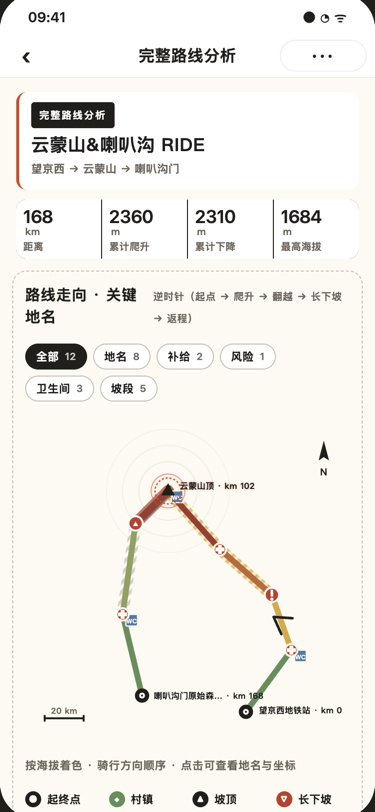
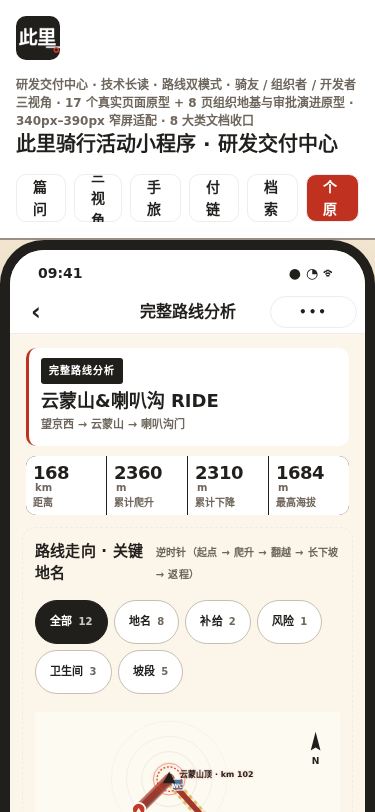
feat(ui): 统一沸点主题与路线分析体验 (#268)
界面：路线分析保留地图、海拔、关键点与分段信息，统一米黄背景、白色卡片、圆角和固定 44px 触控下限。\n体验：补齐凭证安全区、图片语义、隐私称呼与活动卡片胶囊按钮。\n交付：版本升级至 2026.10.17.86，同步 Pages 原型、路由清单和视觉证据。\n验证：validate、coverage、audit:all、UI 严格同步与独立审查全部通过。

diff --git a/docs/schema.js b/docs/schema.js
@@ -89,7 +89,9 @@ window.prototypeData = {
         '关键点、坡段、海拔游标三方联动；点击任一关键点、芯片或分段，所有视图同步更新',
         '地图加载失败时只降级地图，保留海拔、坡度与分段，并提供轻量重试入口',
         '明确标注"脱敏演示样本"：当前地名 / 坐标 / 施工 / 事故为示意结构，正式数据以主办方发布与接入服务为准；不再出现"未接入 / 待接入 / 数据边界 / GPX 下载"等开发态话术',
-        '视觉按高密度专业路线手册约定：米黄纸底 + 深炭字 + 海拔分段功能色（低段绿 / 中段黄 / 顶段橙红）+ 蓝灰 WC + 补给/风险红，不受全局沸点主题装饰约束',
+        '视觉保留码表式高密度信息，但改用沸点米黄底、白色分区卡、深炭字与行动红强调；统一 8 / 26 / 胶囊圆角层级',
+        '地图、筛选、关键点、坡段、海拔游标继续联动；高密度内容通过分区标题、等宽数字与留白建立扫描路径',
+        '地图重置、重试与海拔锚点触控区不小于 44px，标签与辅助文字提升到可读字号',
       ],
       spec: ['路线摘要卡 §3.2', '完整路线分析 §3.11', '路线走向·关键地名 §4.2', '数据格 §2.10', '底部固定栏 §2.12'],
     },
@@ -203,7 +205,7 @@ window.prototypeData = {
       navTitle: '设置',
       group: '个人资料',
       role: '骑友',
-      state: 'V2026.10.17.81',
+      state: 'V2026.10.17.86',
       copy: '查看当前版本信息与本次 App 更新内容，不再堆砌历史时间线。',
       states: [['default', '默认']],
       problems: ['旧版设置页会展示最近五次历史升级，信息密度过高（P1）'],
@@ -762,7 +764,7 @@ window.prototypeData = {
   driver: { name: '王师傅', phone: '139 0000 1234', car: '京A·S1234 白色金杯' },
   attendees: ['风向骑手', '小北', '麦子', '路飞', '阿洛'],
   releaseNotes: [
-    ['2026.10.17.81', '活动归属俱乐部更清楚', '活动、行程、凭证和个人中心会统一展示俱乐部身份，历史活动也会保留发布时的归属。'],
+    ['2026.10.17.86', '主题体验与路线分析焕新', '路线分析保留完整数据密度并融入沸点主题，关键操作尺寸、凭证安全区与隐私说明同步优化。'],
   ],
   clubIdentity: {
     publicLabel: '此里公开活动',

diff --git a/tests/route-analysis-contract.test.ts b/tests/route-analysis-contract.test.ts
@@ -36,7 +36,8 @@ describe('完整路线分析页合同', () => {
       template.indexOf('海拔剖面与锚点'),
     );
     expect(template.indexOf('海拔剖面与锚点')).toBeLessThan(template.indexOf('路线分段'));
-    expect(styles).toContain('background: #efe6d4');
+    expect(styles).toContain('background: var(--color-bg)');
+    expect(styles).toContain('border-radius: var(--radius-md)');
     expect(styles).toContain('font-family: var(--font-mono)');
   });
 
@@ -56,6 +57,10 @@ describe('完整路线分析页合同', () => {
       '{{selectedPoint.note}}',
     ])
       expect(template).toContain(detail);
+    expect(styles).toContain('min-height: 44px');
+    expect(styles).toContain('border-radius: 999rpx');
+    expect(template).toContain('aria-pressed="{{selectedPointId === point.id}}"');
+    expect(template).toContain('aria-label="路线走向地图，可点击标记查看关键点"');
     expect(page).toContain('arrowLine: true');
     expect(page).toContain("display: selected ? 'ALWAYS' : 'BYCLICK'");
     expect(page).toContain('label: {');
@@ -92,7 +97,7 @@ describe('完整路线分析页合同', () => {
     expect(page).toContain('mapPoints: selectedOutline');
     expect(page).toContain('showFullRoute()');
     expect(template).toContain('scale="{{mapScale}}"');
-    expect(template).toContain('bindtap="showFullRoute">查看全线');
+    expect(template).toContain('bindtap="showFullRoute" aria-label="查看完整路线">查看全线');
     expect(page).not.toContain('copyCoordinate');
     expect(page).not.toContain('wx.setClipboardData');
     expect(template).not.toContain('复制坐标');

diff --git a/docs/styles.css b/docs/styles.css
@@ -8078,3 +8078,52 @@ body.capture-viewport .screen-notes {
   .story-hook-questions .story-q { top: 20px; left: 16px; }
   .story-map { padding: 20px; }
 }
+
+/* 2026-10-17 · 路线高密度界面与沸点主题桥接 */
+.route-analysis-page {
+  background: var(--color-bg);
+}
+.route-analysis-page .ra-map,
+.route-analysis-page .ra-map-head,
+.route-analysis-page .ra-map-section,
+.route-analysis-page .ra-map-canvas > .ra-map-svg {
+  background: var(--color-bg);
+}
+.route-analysis-page .ra-map-head-title,
+.route-analysis-page .ra-map-stats > span,
+.route-analysis-page .ra-map-detail,
+.route-analysis-page .ra-panel {
+  background: var(--color-surface);
+}
+.route-analysis-page .ra-map-head-title {
+  border-left-color: var(--color-action);
+}
+.route-analysis-page .ra-map-section,
+.route-analysis-page .ra-map-detail,
+.route-analysis-page .ra-panel {
+  border-color: var(--color-border);
+  border-radius: var(--radius-md);
+}
+.route-analysis-page .ra-filter,
+.route-analysis-page .ra-detail-close,
+.route-analysis-page .ra-detail-copy {
+  min-height: 44px;
+}
+.route-analysis-page .ra-filter {
+  padding: 0 14px;
+}
+.route-analysis-page .ra-filter.is-active,
+.route-analysis-page .ra-kicker {
+  border-color: var(--color-text);
+  background: var(--color-text);
+  color: var(--color-on-media);
+}
+.route-analysis-page .ra-detail-caption,
+.route-analysis-page .ra-map-sample {
+  border-color: var(--color-brand-soft);
+  border-left-color: var(--color-action);
+  background: var(--color-brand-soft);
+}
+.route-analysis-page .ra-detail-conf {
+  background: var(--color-text);
+}

diff --git a/tests/registration-pages-compact-contract.test.ts b/tests/registration-pages-compact-contract.test.ts
@@ -109,7 +109,7 @@ describe('报名、行程与凭证紧凑交互契约', () => {
     expect(profile).not.toContain('正在读取资料。正在同步最新资料');
 
     const profileEdit = read('miniprogram/pages/profile-edit/index.wxml');
-    expect(profileEdit).toContain('手机号仅本人和审核管理员可完整查看');
+    expect(profileEdit).toContain('手机号仅本人和报名审核员可完整查看');
     expect(profileEdit).not.toContain('脱敏值');
 
     const detail = read('miniprogram/pages/activity-detail/index.wxml');
@@ -133,6 +133,12 @@ describe('报名、行程与凭证紧凑交互契约', () => {
     expect(appStyles).toContain('--page-gutter-narrow: 24rpx;');
     expect(appStyles).toContain('@media (max-width: 340px)');
     expect(registrationStyles).toContain('-webkit-line-clamp: 2');
+    const activityCardStyles = read('miniprogram/components/activity-card/index.wxss');
+    expect(activityCardStyles).toContain('.card-action');
+    expect(activityCardStyles).toContain('border-radius: 999rpx !important');
     expect(credentialStyles).toContain('overflow-wrap: anywhere');
+    expect(credentialStyles).toContain('padding-bottom: env(safe-area-inset-bottom)');
+    expect(credential).toContain('aria-label="公开骑行名片背景照片"');
+    expect(credential).toContain('aria-label="{{riderName}}的骑手头像"');
   });
 });

diff --git a/miniprogram/pages/settings/index.ts b/miniprogram/pages/settings/index.ts
@@ -6,15 +6,15 @@ const RELEASE_NOTES = [
   {
     version: CLIENT_RELEASE_VERSION,
     date: '2026-10-17',
-    title: '俱乐部创建申请已可稳定使用',
+    title: '主题体验与路线分析焕新',
     summary:
-      '已登录骑友现在可以稳定提交俱乐部创建申请、保存草稿并查看审批进度，管理员审核通过后才会正式创建俱乐部。',
+      '路线分析在保留完整数据密度的同时融入此里沸点主题，并统一了关键页面的操作尺寸、视觉层级和隐私说明。',
     latest: true,
     features: [
-      '未加入俱乐部时可从“我的”页直接申请创建或查看进度',
-      '支持草稿、待审批、驳回修改重提和审批通过完整状态',
-      '提交失败可原地重试，重复点击不会重复创建俱乐部',
-      '申请资料仅本人和平台管理员可见，联系方式只用于本次审核',
+      '路线分析改用统一卡片、圆角和沸点红强调，地图、海拔与分段信息仍完整保留',
+      '关键锚点、地图操作和重试入口扩大触控区域，小屏浏览更稳定',
+      '报名凭证适配全面屏底部安全区域，并补充照片与头像的清晰说明',
+      '活动卡片操作按钮恢复胶囊样式，报名资料的隐私角色称呼保持一致',
     ],
   },
 ] as const;

diff --git a/tests/showcase-pages-contract.test.ts b/tests/showcase-pages-contract.test.ts
@@ -584,9 +584,9 @@ describe('GitHub Pages 全页面高保真原型门禁', () => {
   });
 
   it('设置页原型同步当前客户端版本与当前 App 更新', () => {
-    expect(schema).toContain("state: 'V2026.10.17.81'");
+    expect(schema).toContain("state: 'V2026.10.17.86'");
     expect(schema).toContain(
-      "['2026.10.17.81', '活动归属俱乐部更清楚', '活动、行程、凭证和个人中心会统一展示俱乐部身份，历史活动也会保留发布时的归属。']",
+      "['2026.10.17.86', '主题体验与路线分析焕新', '路线分析保留完整数据密度并融入沸点主题，关键操作尺寸、凭证安全区与隐私说明同步优化。']",
     );
     expect(templates).toContain('App 更新');
     expect(templates).not.toContain('最近五次');

diff --git a/tests/registration-card-redesign.test.ts b/tests/registration-card-redesign.test.ts
@@ -40,7 +40,7 @@ describe('行程状态卡与报名凭证重设计契约', () => {
     expect(credential).toContain('你的公开资料与照片已随报名提交');
     expect(credential).not.toContain('cardMetrics');
     expect(credential).toContain('{{statusText}}');
-    expect(credential).toContain('以品牌底图展示');
+    expect(credential).toContain('暂无骑行照片，先使用此里品牌封面');
     expect(credential).toContain('avatar-missing');
     expect(credentialStyles).toContain('.compact-rider-card');
     expect(credentialStyles).toContain('.compact-rider-avatar');

diff --git a/tests/admin-profile-visual.test.ts b/tests/admin-profile-visual.test.ts
@@ -53,6 +53,7 @@ describe('管理端与个人资料视觉契约', () => {
     expect(source).toContain("avatarInitial: nickname.slice(0, 1) || '骑'");
     expect(template).toContain('class="review-avatar"');
     expect(template).toContain('wx:if="{{item.avatarUrl}}"');
+    expect(template).toContain('aria-label="{{item.profile.nickname || \'骑友\'}}的头像"');
     expect(template).toContain('<text wx:else>{{item.avatarInitial}}</text>');
     expect(styles).toMatch(/\.review-avatar\s*\{[^}]*width:\s*88rpx;[^}]*height:\s*88rpx/s);
     expect(source).not.toContain('已入队');

diff --git a/tests/theme-runtime-integration.test.ts b/tests/theme-runtime-integration.test.ts
@@ -44,7 +44,7 @@ describe('单一明亮外观接线', () => {
     expect(template).not.toContain('wx:for="{{releaseNotes}}"');
     expect(script).toContain("date: '2026-10-17'");
     expect(script).toContain('version: CLIENT_RELEASE_VERSION');
-    expect(script).toContain("title: '俱乐部创建申请已可稳定使用'");
+    expect(script).toContain("title: '主题体验与路线分析焕新'");
     const latestMatches = script.match(/latest:\s*true/g) || [];
     expect(latestMatches).toHaveLength(1);
   });

diff --git a/tests/settings-page.test.ts b/tests/settings-page.test.ts
@@ -28,7 +28,7 @@ describe('设置页', () => {
       version: CLIENT_RELEASE_VERSION,
       date: '2026-10-17',
       latest: true,
-      title: '俱乐部创建申请已可稳定使用',
+      title: '主题体验与路线分析焕新',
     });
     expect(page.data.currentRelease).toBe(page.data.releaseNotes[0]);
     expect(page.data.releaseNotes.filter((note: { latest: boolean }) => note.latest)).toHaveLength(
